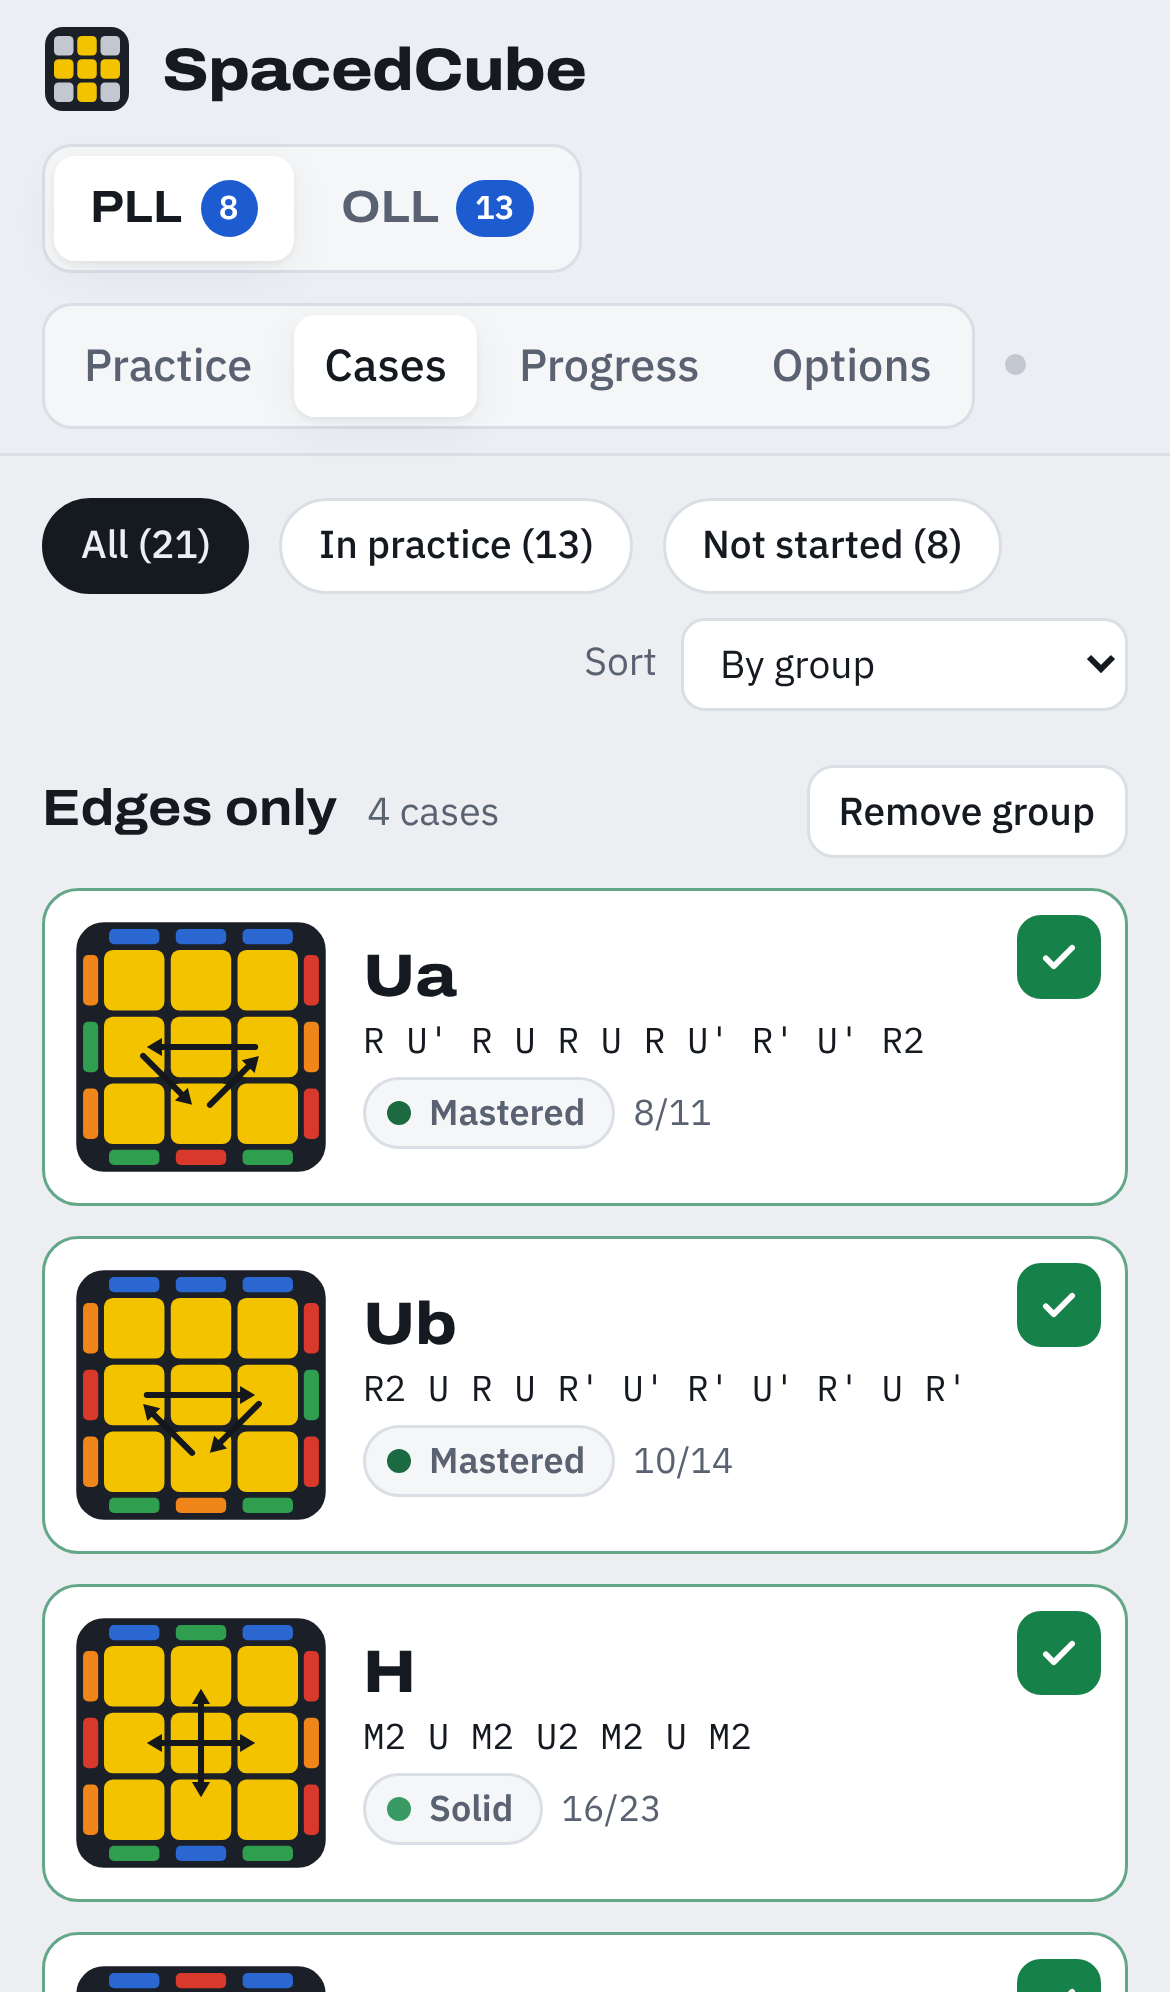
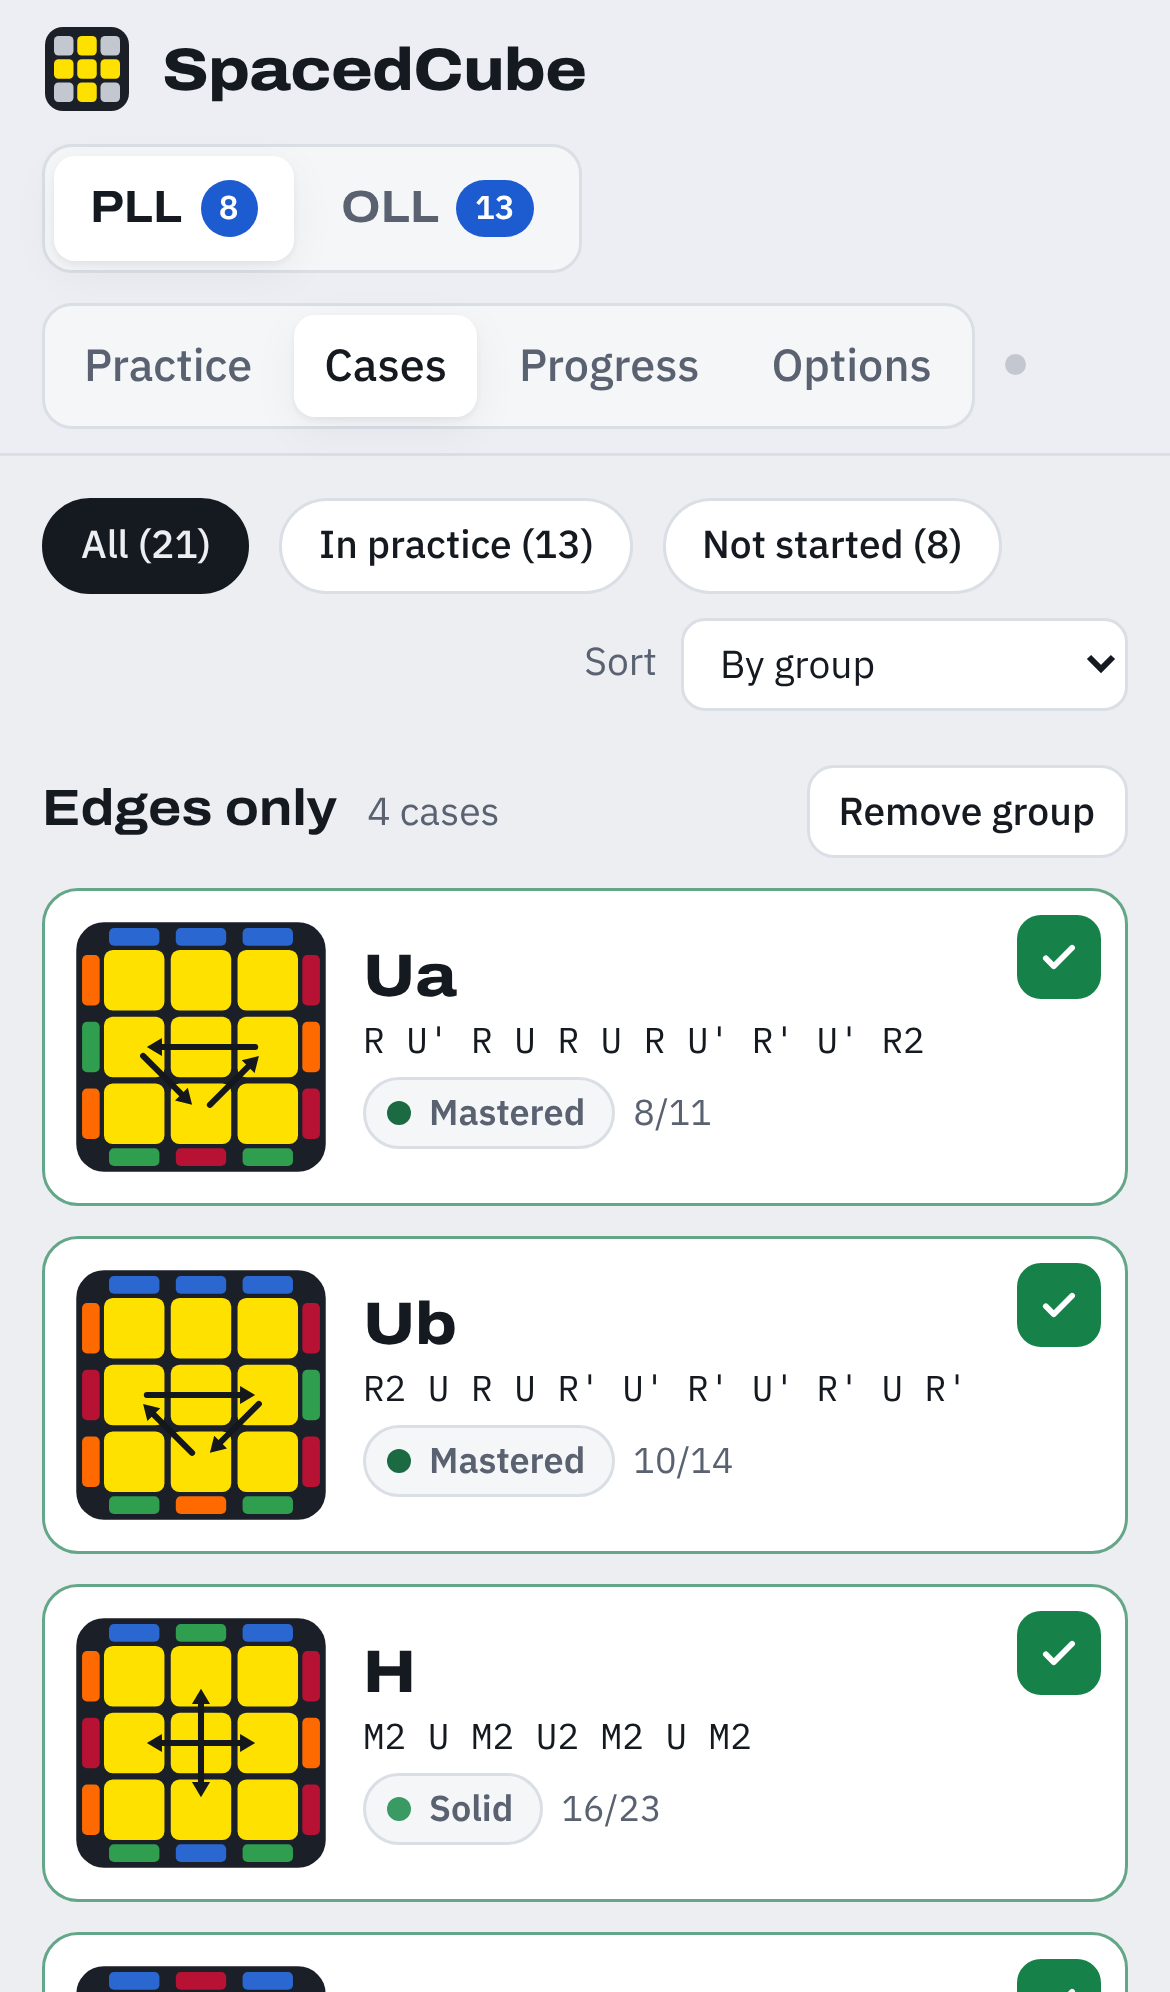
Clearer sticker colours: yellow, orange and red further apart
Feedback: yellow, red and orange were too close. New palette, close to real
cube colours: lemon yellow #ffe100, pure orange #ff6a00, deep red #b71234.
CIEDE2000 differences: yellow-orange 23 -> 40, orange-red 25 -> 32, and
better under simulated deuteranopia and protanopia. One palette (colors.js)
now feeds both the diagrams and the 3D viewer; side bars slightly thicker.
README screenshots updated.

Claude-Session: https://claude.ai/code/session_0158UrqXiT8KaEf9U6SxtX84

diff --git a/src/css/base.css b/src/css/base.css
@@ -15,7 +15,7 @@
   --good-soft: #e1f3e8;
   --bad: #c2352e;
   --bad-soft: #fbe6e4;
-  --sticker-on: #f3c300;
+  --sticker-on: #ffe100;
   --sticker-off: #c3c8d0;
   --cube-body: #1b1f27;
   --m0: #d9dde4;
@@ -35,7 +35,7 @@
     --bg: #0f1216; --surface: #171b21; --surface-2: #1d222a; --ink: #e7eaef; --muted: #99a2b0; --line: #2a3039;
     --accent: #79a3ff; --accent-ink: #0a1222; --on-strong: #0b1410; --accent-soft: #1d2a44;
     --good: #45c17d; --good-soft: #15301f; --bad: #f06c64; --bad-soft: #3a1b19;
-    --sticker-on: #f3c300; --sticker-off: #464d59; --cube-body: #090b0e;
+    --sticker-on: #ffe100; --sticker-off: #464d59; --cube-body: #090b0e;
     --m0: #2b313b; --m1: #24463a; --m2: #2e7050; --m3: #3fa56c; --m4: #78d9a1;
     --shadow: 0 1px 2px rgba(0,0,0,.3), 0 6px 20px rgba(0,0,0,.25);
     color-scheme: dark;
@@ -45,7 +45,7 @@
   --bg: #0f1216; --surface: #171b21; --surface-2: #1d222a; --ink: #e7eaef; --muted: #99a2b0; --line: #2a3039;
   --accent: #79a3ff; --accent-ink: #0a1222; --on-strong: #0b1410; --accent-soft: #1d2a44;
   --good: #45c17d; --good-soft: #15301f; --bad: #f06c64; --bad-soft: #3a1b19;
-  --sticker-on: #f3c300; --sticker-off: #464d59; --cube-body: #090b0e;
+  --sticker-on: #ffe100; --sticker-off: #464d59; --cube-body: #090b0e;
   --m0: #2b313b; --m1: #24463a; --m2: #2e7050; --m3: #3fa56c; --m4: #78d9a1;
   --shadow: 0 1px 2px rgba(0,0,0,.3), 0 6px 20px rgba(0,0,0,.25);
   color-scheme: dark;

diff --git a/src/js/app/diagrams.js b/src/js/app/diagrams.js
@@ -2,8 +2,9 @@
 import { S } from './state.js';
 import { esc } from './util.js';
 
-const FACE_COLORS = { F: '#2f9e4f', R: '#d8392b', B: '#2b67d1', L: '#f08519', U: 'var(--sticker-on)', D: '#f4f4f4' };
-const FACE_NAMES = { F: 'green', R: 'red', B: 'blue', L: 'orange', U: 'yellow', D: 'white' };
+import { FACE_HEX, FACE_NAMES } from './colors.js';
+
+const FACE_COLORS = { ...FACE_HEX, U: 'var(--sticker-on)' };
 
 // What to show for a case: the user's algorithm (if any) and the case as seen from its angle.
 const viewCache = new Map();
@@ -35,7 +36,7 @@ const frame = (id, size, decorative) => {
   const a11y = decorative ? 'aria-hidden="true" focusable="false"' : `role="img" aria-label="${esc(describe(id))}"`;
   return `<svg class="dg" viewBox="0 0 100 100" width="${size}" height="${size}" ${a11y}><rect x="0.5" y="0.5" width="99" height="99" rx="11" fill="var(--cube-body)"/>`;
 };
-const CELL = 24, GAP = 2.5, START = 50 - (3 * CELL + 2 * GAP) / 2, T = 6, O = 3.2;
+const CELL = 24, GAP = 2.5, START = 50 - (3 * CELL + 2 * GAP) / 2, T = 7, O = 2.8; // T: side bars, thick enough to judge their colour
 
 function pllDiagram(id, size, decorative) {
   const c = view4(id);

diff --git a/src/js/app/colors.js b/src/js/app/colors.js
@@ -1,0 +1,15 @@
+// Sticker colours, shared by the 2D diagrams and the 3D viewer.
+// Chosen to keep yellow, orange and red clearly apart (also for common colour-vision deficiencies):
+// a lemon yellow, a pure orange and a deep red, close to the colours real cubes use.
+// The yellow also lives in CSS (--sticker-on, base.css) for the OLL diagrams and the logo: keep both equal.
+export const FACE_HEX = {
+  U: '#ffe100', // yellow (top)
+  D: '#f5f5f5', // white
+  F: '#2f9e4f', // green (front)
+  B: '#2b67d1', // blue
+  R: '#b71234', // red
+  L: '#ff6a00', // orange
+};
+export const FACE_NAMES = { F: 'green', R: 'red', B: 'blue', L: 'orange', U: 'yellow', D: 'white' };
+// The same colours as numbers, for three.js.
+export const FACE_INT = Object.fromEntries(Object.entries(FACE_HEX).map(([k, v]) => [k, parseInt(v.slice(1), 16)]));

diff --git a/src/js/app/viewer3d.js b/src/js/app/viewer3d.js
@@ -5,6 +5,7 @@ import { $, $$, esc, prefersReducedMotion } from './util.js';
 import { algFor, label } from './diagrams.js';
 import { onAction } from './actions.js';
 import { modalOpened, modalClosed } from './modal.js';
+import { FACE_INT } from './colors.js';
 
 let threePromise = null;
 function loadThree() {
@@ -20,7 +21,7 @@ function loadThree() {
   }
   return threePromise;
 }
-const HEX = { U: 0xf3c300, D: 0xf4f4f4, F: 0x2f9e4f, B: 0x2b67d1, R: 0xd8392b, L: 0xf08519 };
+const HEX = FACE_INT;
 const SPEEDS = { 0.5: 1400, 1: 800, 2: 400 };
 let V = null; // open viewer
 function savedSpeed() { try { const v = Number(sessionStorage.getItem('v-speed')); return SPEEDS[v] ? v : 1; } catch (e) { return 1; } }

diff --git a/README.md b/README.md
@@ -54,6 +54,7 @@ src/js/app/            The UI, as small ES modules:
   practice.js, cases.js, progress.js, charts.js, options.js   the views
   due.js                 due counts: header badges, title, app icon badge
   diagrams.js            case diagrams and labels
+  colors.js              sticker colours, shared by the diagrams and the 3D viewer
   dialog.js, modal.js    case dialog and shared modal behaviour
   viewer3d.js            3D replay
   render.js, actions.js, keys.js   rendering, click and keyboard handling
